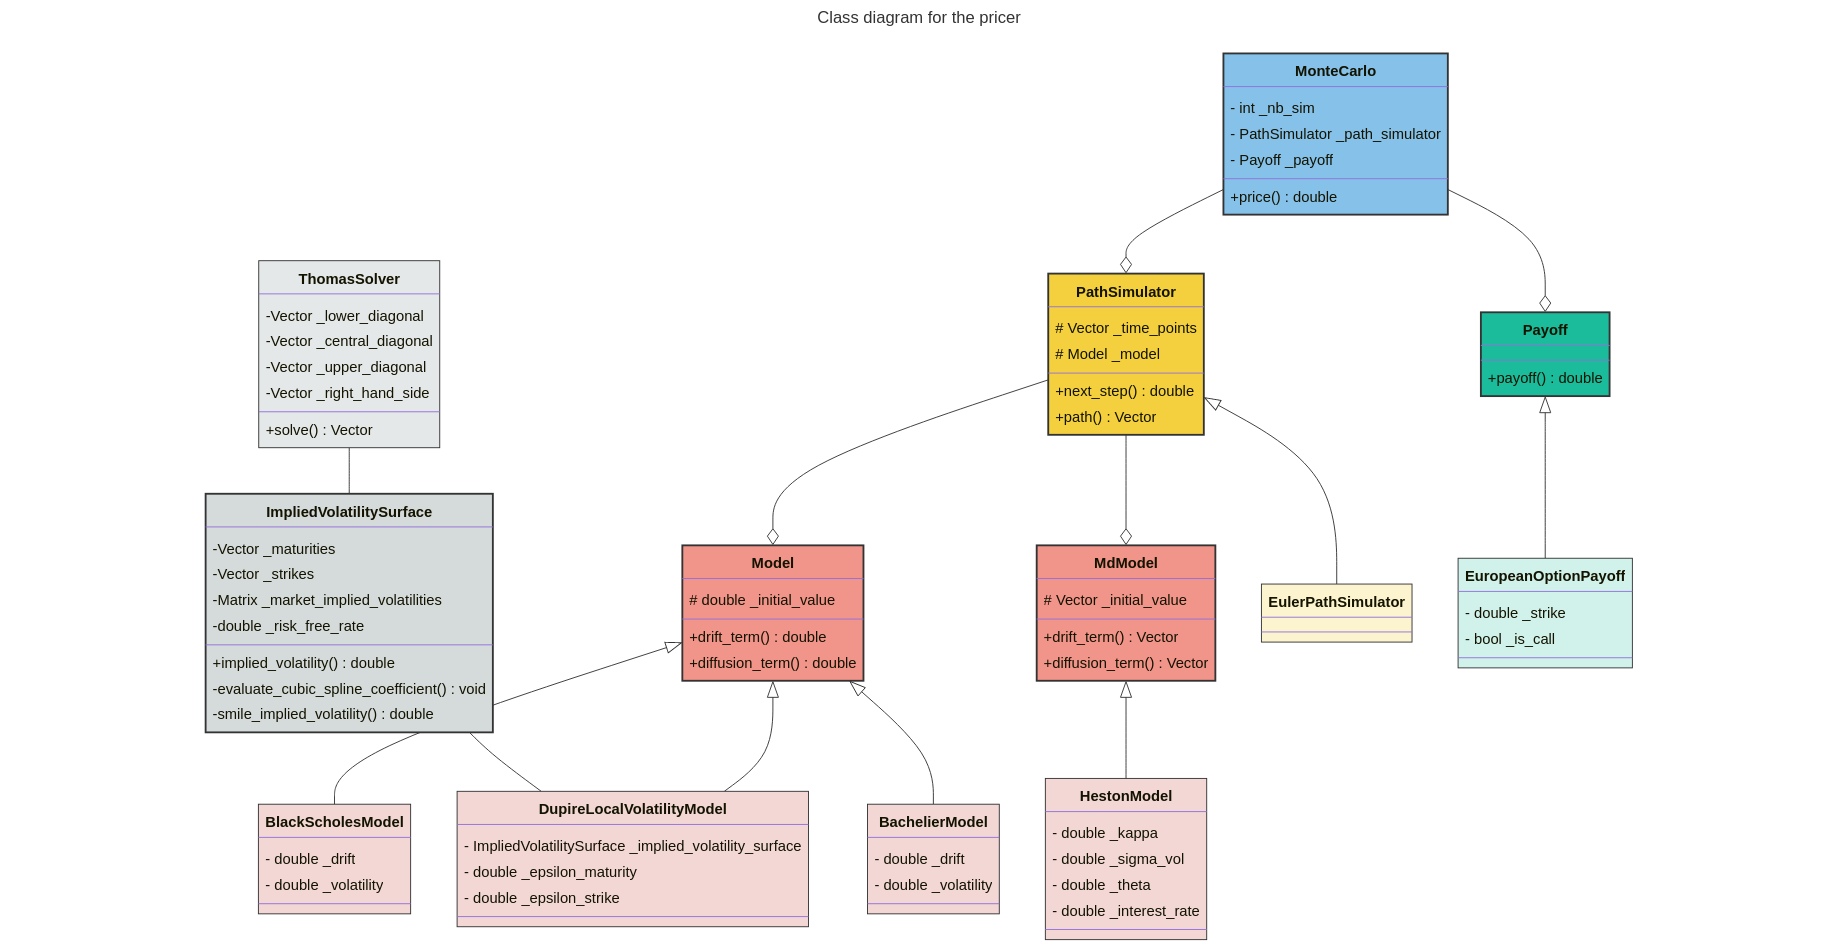
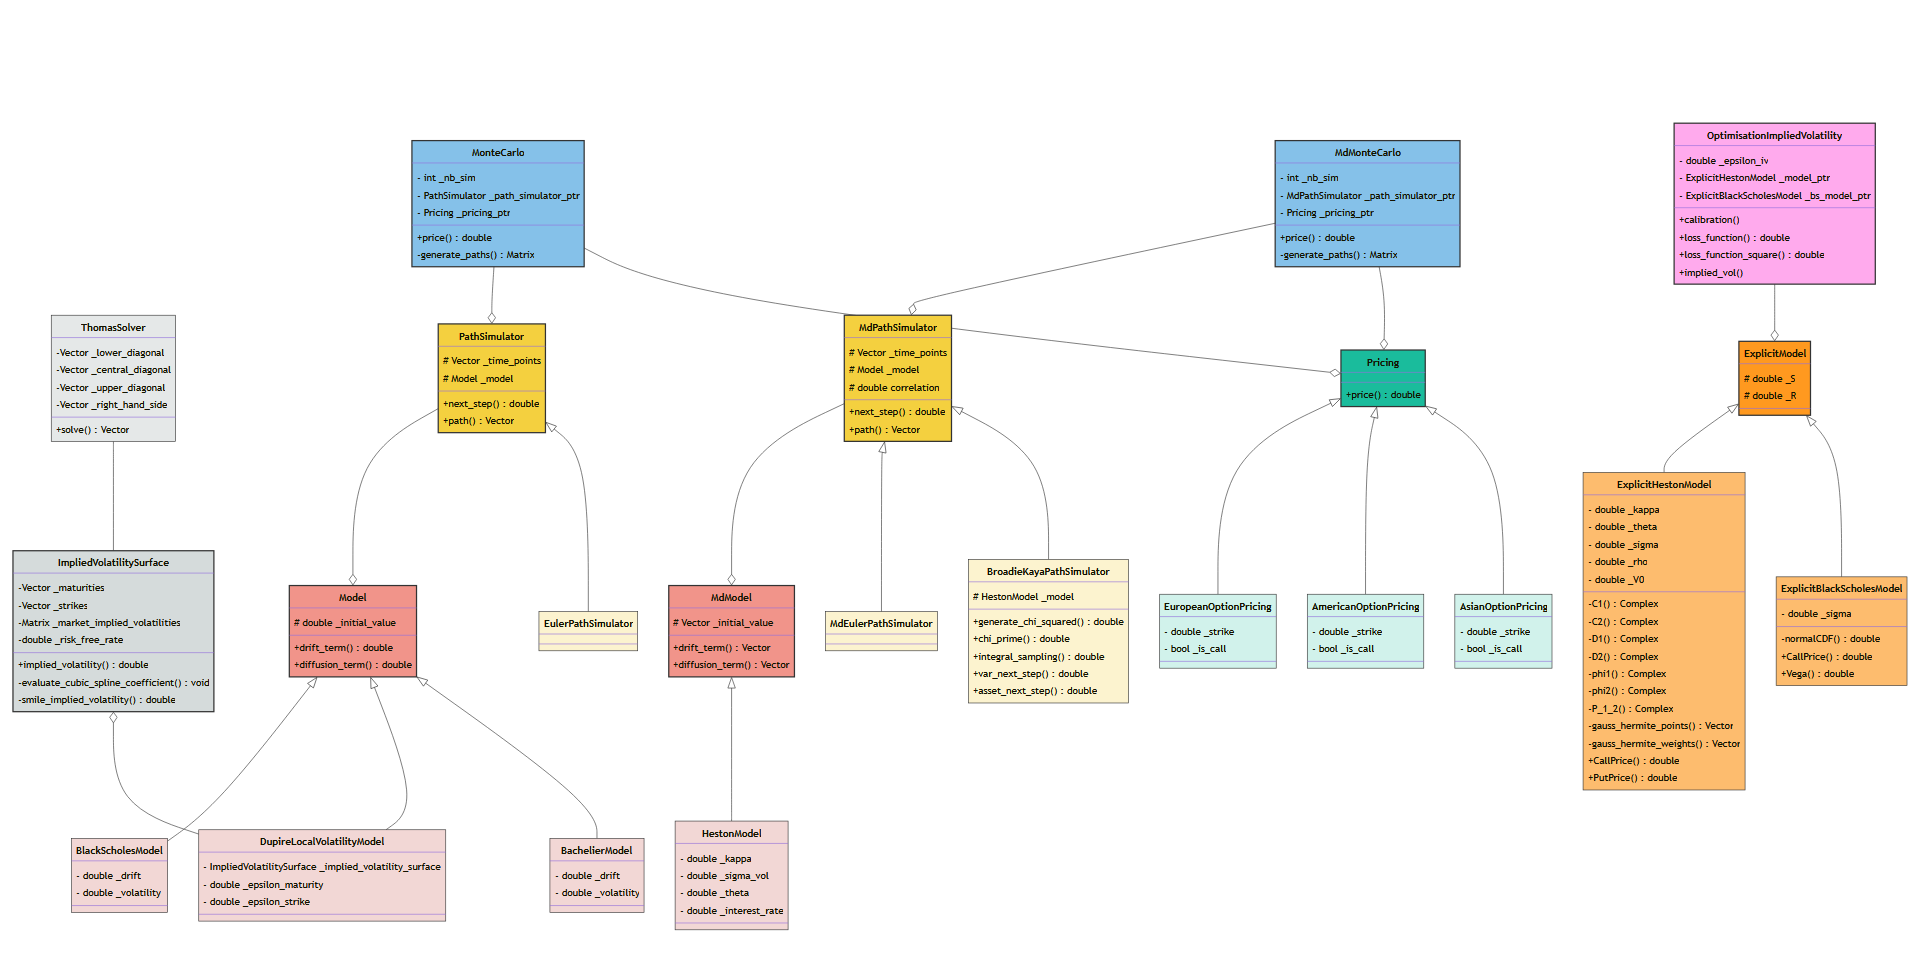
[UPDATE] project

diff --git a/src/MonteCarloEngine/MonteCarlo.h b/src/MonteCarloEngine/MonteCarlo.h
@@ -8,15 +8,7 @@
 #include <iostream>
 #include <random>
 #include <vector>
-// #include <Eigen/Dense> //  Eigen pour la régression linéaire
-// using namespace Eigen;
 using namespace std;
-
-/*
-double normalCDF(double value) {
-    return 0.5 * (1 + std::erf(value / std::sqrt(2)));  // CDF de N(0,1)
-}
-*/
 
 class MonteCarlo {
 public:
@@ -43,151 +35,3 @@ private:
   const MdPathSimulator *_path_simulator_ptr;
   const Pricing *_pricing_ptr;
 };
-
-/*
-VectorXd genlaguerre(int k, const VectorXd& x) {  // application coordonnée par
-coordonnée du polynôme de Laguerre d'ordre k au vecteur x VectorXd V(x.size());
-        for (int i = 0; i < x.size(); ++i) {
-            V(i) = std::laguerre(k, x(i));
-    }
-    return V;
-}
-
-MatrixXd laguerre_basis(const VectorXd& x, int n) {  // Renvoie une matrice M
-avec m_ij = Laguerre_j(x_i) MatrixXd basis(x.size(), n); for (int i = 0; i < n;
-++i) { basis.col(i) = genlaguerre(i, x);
-    }
-    return basis;
-}
-
-
-int main() {
-    std::random_device rd;
-    std::mt19937 gen(rd());
-    std::normal_distribution<double> distribution(0, 1); // Génération de
-nombres aléatoires
-
-
-
-    double K = 130;         // Strike
-    double T = 1;         // Temps d'expiration
-    double sig = 0.8;       // Volatilité
-    double r = 0.05;        // Taux d'intérêt
-    double S0 = 110;        // Prix Spot
-    int N_echeances = 200;  // Nombre d'échéances =  N pas de discrétisation ici
-    double dt = T / N_echeances;
-    double rdt = r * dt;
-    double sdt = sig * std::sqrt(dt);
-    double der = rdt - sdt * sdt / 2;
-    int N_regressors = 10;  // Nombre de régresseurs pour la régression de
-Laguerre int N_sim = 25000;      // Nombre de simulations int N_step = 1; //
-Nombre de pas pour chaque échéance, fixé à 1 dans l'idée d'une option américaine
-
-    double d1 = (std::log(S0 / K) + r * T) / (sig * std::sqrt(T)) + sig *
-std::sqrt(T) / 2.0; double d2 = d1 - sig * std::sqrt(T); double BS = -K *
-std::exp(-r * T) * normalCDF(d2) + S0 * normalCDF(d1);
-
-    // Initialisation des 2*N_sim trajectoires Milstein. (Variable antithétique)
-
-    vector<vector<double> > trajectoires(2*N_sim,
-vector<double>(N_echeances+1,0.0)); for (size_t i = 0; i < 2*N_sim; ++i) {
-        trajectoires[i][0] = S0;
-    }
-    for (size_t i = 1; i < N_echeances+1; ++i) {
-        for (size_t m = 0; m < N_sim; ++m) {
-            double g = distribution(gen);
-            trajectoires[m][i]= trajectoires[m][i-1]* (1 + sdt * g + der + (sdt
-* g) * (sdt * g) / 2.0);  // Schéma de Milstein 1D trajectoires[2*N_sim-m-1][i]
-= trajectoires[2*N_sim-m-1][i - 1] * (1 - sdt * g + der + (sdt * g) * (sdt * g)
-/ 2.0);       // Ajout de la trajectoire antithétique
-        }
-    }
-
-
-    vector<vector<double>> cashflows = trajectoires;        // Calcul des
-cashflows pour toutes les dates
-
-
-    for (size_t i = 0; i < trajectoires.size(); ++i) {
-        for (int k = 1; k <= N_echeances; ++k) {
-            cashflows[i][k] = std::max(trajectoires[i][k] - K, 0.0);  // cash
-flows
-        }
-        cashflows[i][0] = 0.0;
-    }
-
-    vector<double> eu_cf(2*N_sim, 0.0);                 // European Style
-Cashflows for (size_t i = 0; i < cashflows.size(); ++i) { eu_cf[i] =
-cashflows[i][N_echeances];
-    }
-        double sum_eu_call = accumulate(begin(eu_cf), end(eu_cf), 0);
-        double eu_call = exp(-r * T) * sum_eu_call / (2*N_sim);
-    cout << "EU Style Price MC = " << eu_call << endl;
-    cout << "EU BS Formula= " << BS << endl;
-
-    // Backward Monte Carlo par moindre carrés :
-
-    for (int k = N_echeances - 1; k > 0; --k) {                // Identification
-des chemins in the money à la date précédente : vector<double> in_the_money; for
-(size_t i = 0; i < trajectoires.size(); ++i) { if (trajectoires[i][k] > K)  {
-                in_the_money.push_back(i);
-            }
-        }
-
-        MatrixXd X(in_the_money.size(), N_regressors);         // Préparation de
-la régression linéaire visant à expliquer le cashflow futur actualisé (noté y)
-                                                               // par la valeur
-spot sur les chemins ITM (noté  X_)
-
-        vector<double> y;
-        VectorXd X_(in_the_money.size());
-        for (size_t j = 0; j < in_the_money.size(); ++j) {
-            int idx = in_the_money[j];
-            X_(j) = trajectoires[idx][k];
-
-
-            for (int u = k + 1; u <= N_echeances; ++u) { // Repérage sur chaque
-trajectoire ou est le prochain cashflow non nul if (cashflows[idx][u] > 0 || u
-== N_echeances) { y.push_back(exp(-r * (u - k) * T / N_echeances) *
-cashflows[idx][u]); break;
-                }
-            }
-
-        }
-        X = laguerre_basis(X_, N_regressors);
-
-
-        // Régression linéaire par moindre carrés sur base de polynômes de
-Legendre
-
-
-        VectorXd y_vec(y.size());
-        for (size_t i = 0; i < y.size(); ++i) {
-            y_vec(i) = y[i];
-        }
-        VectorXd regression = (X.transpose() * X).ldlt().solve(X.transpose() *
-y_vec);  // Régression linéaire via le module Eigen VectorXd estimated_cashflows
-= X * regression; for (size_t j = 0; j < in_the_money.size(); ++j) { int idx =
-in_the_money[j]; if (cashflows[idx][k] < estimated_cashflows(j)) {
-                cashflows[idx][k] = 0.0;
-            }
-        }
-    }
-
-
-    vector<double> mc;
-    for (const auto& cashflow : cashflows) {
-        for (size_t i = 1; i < cashflow.size(); ++i) {
-            if (cashflow[i] > 0) {
-                mc.push_back(cashflow[i] * exp(-r * i * T / N_echeances));
-                break;
-            }
-        }
-    }
-
-    // Calcul du prix
-        double sum_mc = accumulate(begin(mc), end(mc), 0);
-        double price = sum_mc / (2*N_sim);
-    cout << "American Style Price = " << price << endl;
-}
-*/

diff --git a/doc/conf.py b/doc/conf.py
@@ -9,7 +9,7 @@
 project = 'C++-Pricer'
 html_title = 'C++Pricer'
 copyright = '2023, Charles-Auguste GOURIO'
-author = 'Charles-Auguste GOURIO'
+author = 'Charles-Auguste GOURIO, Grégoire Ounnoughene'
 
 # -- General configuration ---------------------------------------------------
 # https://www.sphinx-doc.org/en/master/usage/configuration.html#general-configuration
@@ -42,7 +42,7 @@ html_static_path = ['_static']
 #   https://github.com/mermaid-js/mermaid-cli
 
 
-title = "C++ Pricer - Derivatives"
+title = "C++ Project - Monte Carlo Pricing Engine"
 latex_documents = [('index', 'pricer.tex', title, author, 'howto')]
 latex_elements = {
   'preamble': r'\usepackage{unicode-math}',
@@ -52,8 +52,8 @@ latex_elements = {
   # 'classoptions': ',twocolumn',    # to have two columns
   'tableofcontents': '',           # To remove the TOC
   }
-latex_theme = 'howto'  # two values: 'manual' to make a book, 'howto' to have an article
-#latex_engine = 'lualatex'
+latex_theme = 'manual'  # two values: 'manual' to make a book, 'howto' to have an article
+latex_engine = 'xelatex'
 
 
 #latex_logo = '_static/images/enpc.eps'

diff --git a/doc/src/main.rst b/doc/src/main.rst
@@ -156,6 +156,7 @@ We start in the `gtest` folder (`/usr/src/gtest`)
 .. note::
 
   One can find more information on `Gtest` library `here <https://github.com/google/googletest>`__
+  You can also run `make setup` command to install the library.
 
 
 Test and dry run
@@ -219,6 +220,10 @@ build, clean and format the library.
 As you can see, the building configuration has been saved to `/build` folder. Now one
 can esasily compile the library.
 
+.. image:: /_static/images/cmake_term.png
+  :width: 800
+  :align: center
+
 .. note::
 
   `$ make clean` instruction kindly remove the build directory (and the `CMakeCache.txt` file). It is usefull if some changes has been done to the `CMakeList.txt` file.
@@ -260,8 +265,14 @@ can esasily compile the library.
   Gtest framework allows us to launch each test individually.
 
 
-Using the Library
------------------
+**On visual Studio Code**
+
+All these steps can also be done one `Visual studio code`. With the shortcut `Ctrl + Maj
++ P`, you can configure, build and clean rebuild the project !!
+
+.. image:: /_static/images/cmake_vs.png
+  :width: 800
+  :align: center
 
 
 ===================================
@@ -345,7 +356,6 @@ Let's take a look at the `CMakeList.txt` file and analyse it.
     "${LIBRARY_BASE_PATH}"
   )
 
-| 
 
 **Files to compile ...**
 
@@ -375,7 +385,6 @@ Let's take a look at the `CMakeList.txt` file and analyse it.
     "${LIBRARY_BASE_PATH}/Calibration/test.cpp"
   )
 
-|
 
 **Building the library**
 
@@ -396,7 +405,6 @@ Let's take a look at the `CMakeList.txt` file and analyse it.
       LINKER_LANGUAGE CXX
   )
 
-|
 
 **Building the executable**
 
@@ -418,7 +426,6 @@ Let's take a look at the `CMakeList.txt` file and analyse it.
 
   set_target_properties(test PROPERTIES LINKER_LANGUAGE CXX) 
   
-|
 
 **Dependencies (Eigen)**
 
@@ -431,7 +438,6 @@ Let's take a look at the `CMakeList.txt` file and analyse it.
     message("Cannot find Eigen. Make sure you install it correctly")
   endif()
 
-|
 
 That's it. Now and to summarize, the purpose of this file is to give building
 instruction to our compiler. Our project is building two things:
@@ -495,6 +501,7 @@ framework).
 
 .. image:: /_static/images/test.png
   :width: 800
+  :align: center
 
 
 Classes and objects
@@ -502,9 +509,9 @@ Classes and objects
 
 A good way to understand our library is by taking a closer look at the class diagramm
 
-
 .. image:: /_static/images/mermaid.png
   :width: 800
+  :align: center
 
 
 Modules and Submodules
@@ -513,17 +520,42 @@ Modules and Submodules
 Thomas Solver & Implied Volatility Surface
 ------------------------------------------
 
+.. image:: /_static/images/thomas.png
+  :width: 200
+  :align: center
+
 Model
 -----
+
+.. image:: /_static/images/model.png
+  :width: 400
+  :align: center
 
 Path Simulator
 --------------
 
+.. image:: /_static/images/path_simulator.png
+  :width: 400
+  :align: center
+
 Pricing
 -------
+
+.. image:: /_static/images/pricing.png
+  :width: 400
+  :align: center
+
 
 Calibration
 -----------
 
+.. image:: /_static/images/optim.png
+  :width: 400
+  :align: center
+
 Monte Carlo Engine
 ------------------
+
+.. image:: /_static/images/montecarlo.png
+  :width: 400
+  :align: center
